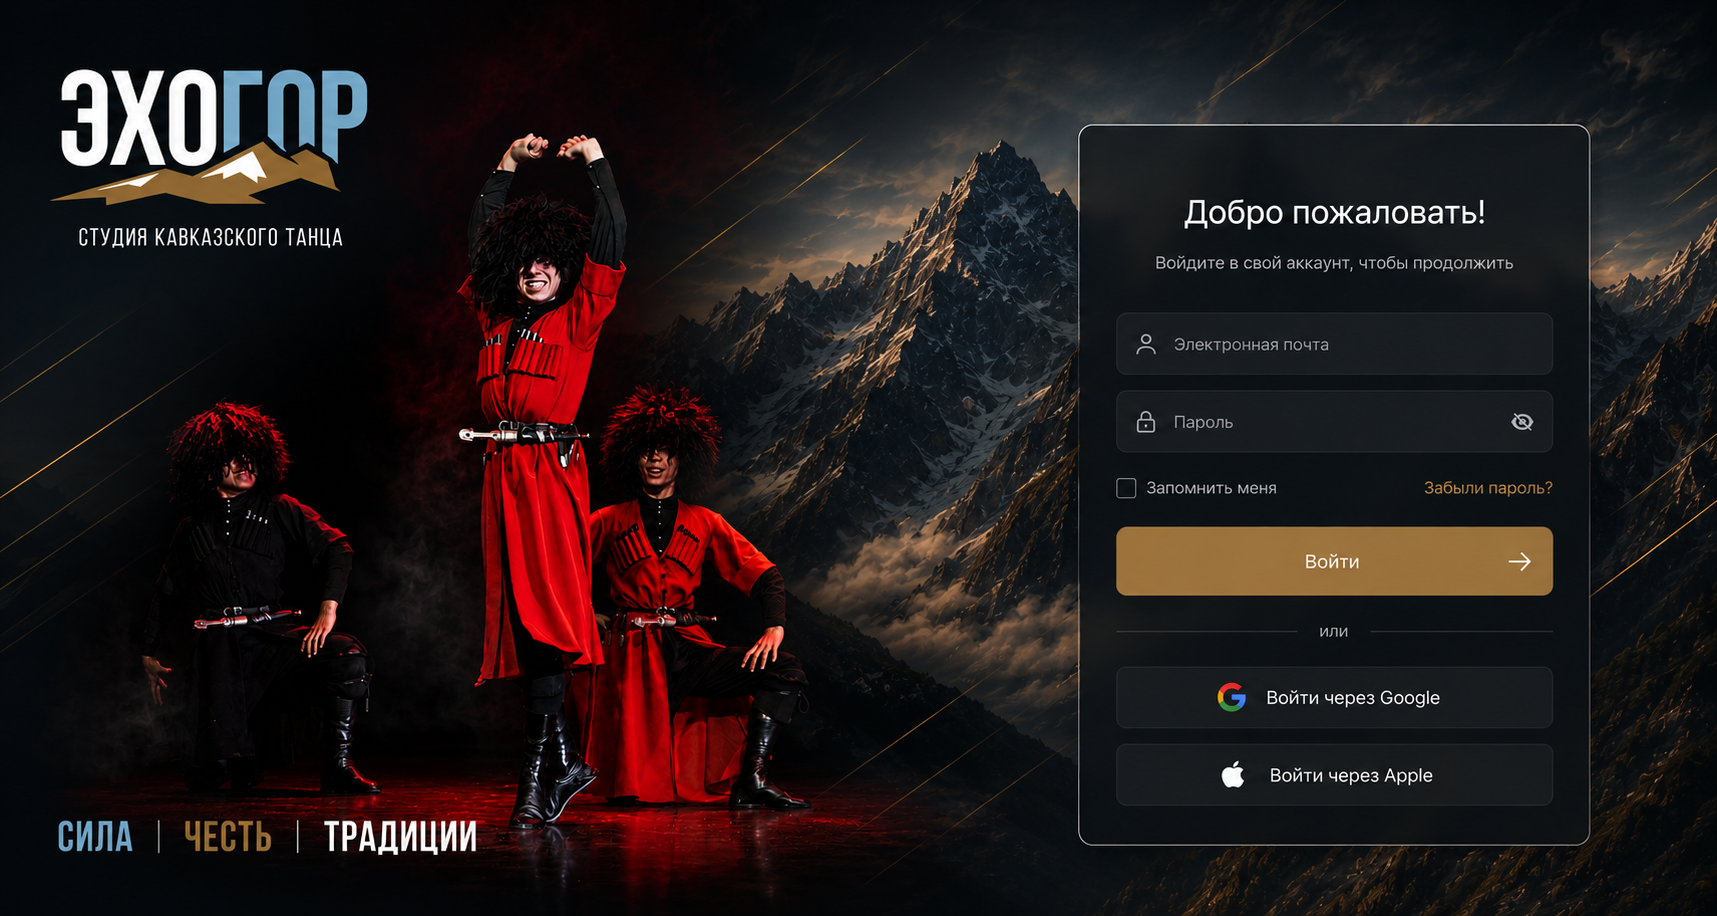
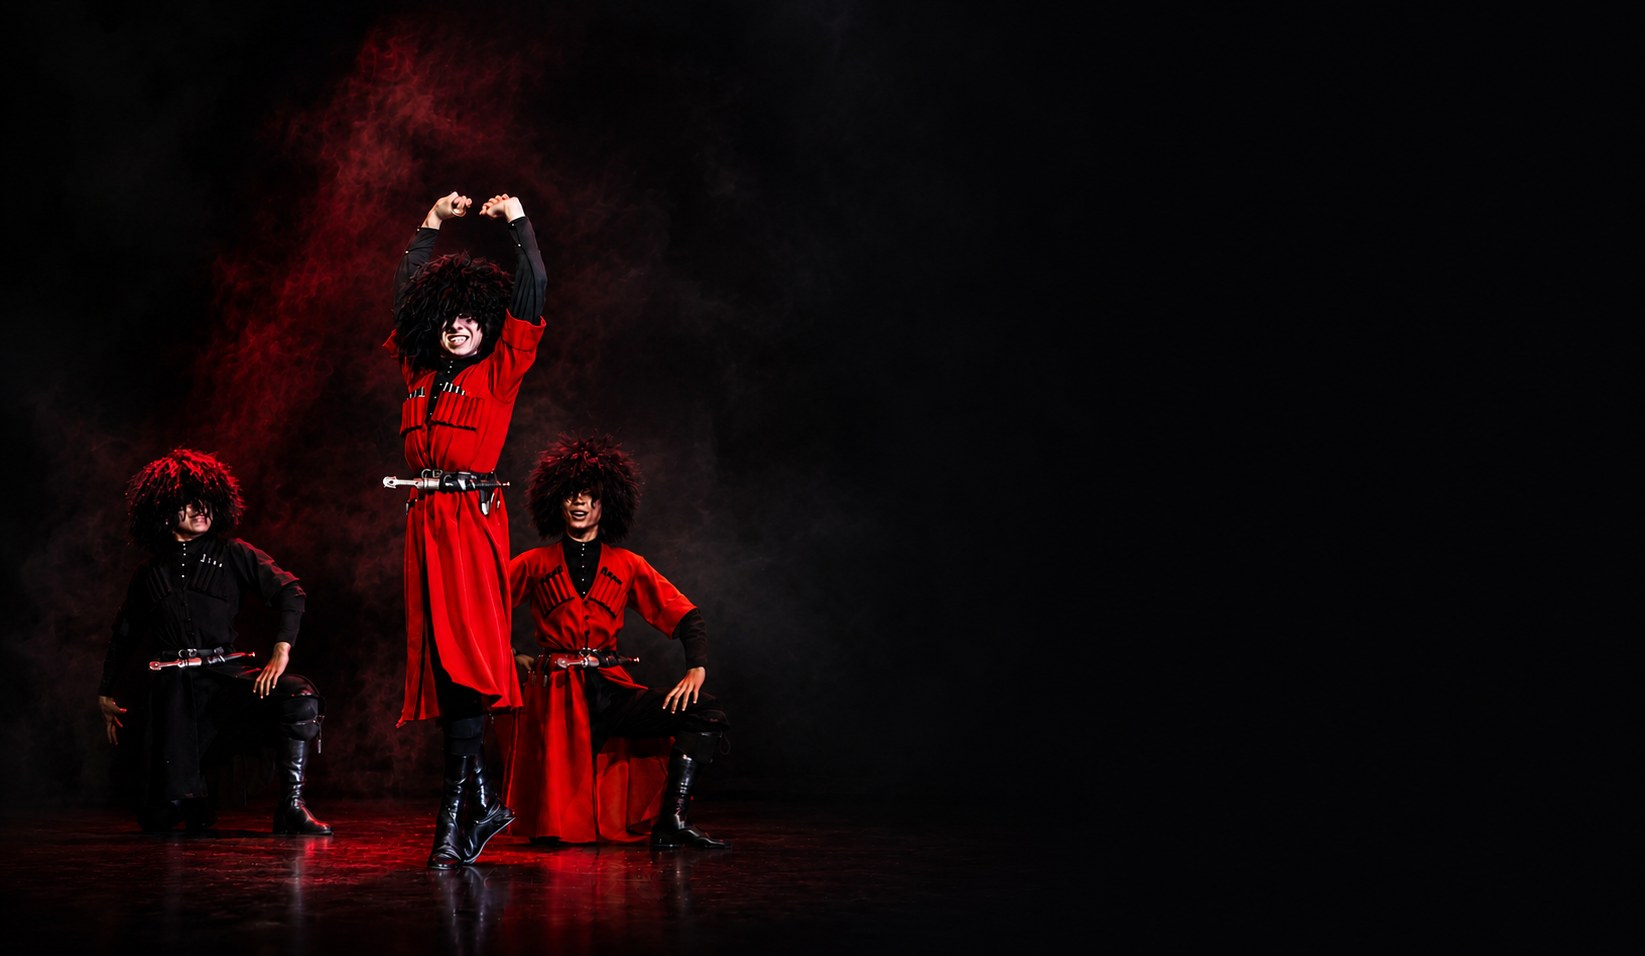
fix(login): чистый фон + логотип и тэглайн живой вёрсткой, адаптив

diff --git a/src/App.tsx b/src/App.tsx
@@ -18,6 +18,7 @@ import logoImg from "./assets/images/echogor_logo_1780297382250.png";
 import trainerLoginImg from "./assets/images/new_trainer_login_bg_1780308409116.png";
 // @ts-ignore
 import desktopLoginBg from "./assets/images/login_dancers_bg.png";
+import echoLogo from "./assets/images/logo_main.png";
 // @ts-ignore
 import mobileLoginBg from "./assets/images/login_dancers_bg.png";
 // @ts-ignore
@@ -2323,17 +2324,27 @@ export default function App() {
     <div className={`flex flex-col h-screen w-screen overflow-hidden bg-[#0A0A0A] text-slate-200 font-sans ${themeMode === "day" ? "day-theme-app" : themeMode === "iman" ? "iman-theme-app" : ""}`}>
       
       {/* Desktop login uses the supplied image as the visible UI, with real controls as transparent hotspots. */}
+      {/* ═══ Экран входа «Эхогор» — фон-фото + логотип/тэглайн живой вёрсткой ═══
+          Логика входа НЕ менялась: handleDesktopLogin, телефон +7, пароль,
+          desktopEmail/Password/RememberMe/ShowPassword, primeLoginVideoAudio,
+          кнопка мобильного симулятора — всё как было.
+          Изменена только оформительская обёртка: чистое фото фоном, мягкое
+          затемнение вместо жёсткой колонки 42%, логотип и тэглайн вынесены
+          в разметку (раньше были вшиты в картинку). */}
       {isPlayingPromo && (
         <div className="login-auth-screen fixed inset-0 z-[9999] bg-[#0A0D14] overflow-hidden select-none animate-fade-in font-sans text-slate-200">
           {/* Базовый тёмный фон — всегда виден, даже если фото не подгрузилось. */}
           <div className="absolute inset-0" style={{ background: "radial-gradient(120% 120% at 15% 10%, #1a2536 0%, #0B1018 45%, #05070C 100%)" }} />
-          {/* Фоновая фотография (танцоры + горы) поверх подложки. */}
+
+          {/* Фоновая фотография (чистая, без вшитого логотипа). Одна на все экраны;
+              object-position смещён влево, чтобы танцоры не обрезались на узких экранах. */}
           <img
             src={desktopLoginBg}
             alt=""
             aria-hidden="true"
             onError={(e) => { (e.currentTarget as HTMLImageElement).style.display = "none"; }}
             className="absolute inset-0 hidden h-full w-full object-cover opacity-95 md:block"
+            style={{ objectPosition: "30% center" }}
             referrerPolicy="no-referrer"
           />
           <img
@@ -2342,17 +2353,34 @@ export default function App() {
             aria-hidden="true"
             onError={(e) => { (e.currentTarget as HTMLImageElement).style.display = "none"; }}
             className="absolute inset-0 block h-full w-full object-cover opacity-95 md:hidden"
+            style={{ objectPosition: "30% center" }}
             referrerPolicy="no-referrer"
           />
-          {/* Затемнение фона для контраста формы (inline-градиент в sRGB — без oklab-артефактов Tailwind v4). */}
-          <div className="absolute inset-0" style={{ background: "linear-gradient(to right, rgba(5,7,12,0.35), rgba(5,7,12,0.10) 40%, rgba(5,7,12,0.55))" }} />
-          {/* Плотная правая колонка — полностью скрывает «вшитую» в картинку форму. */}
-          <div className="absolute inset-y-0 right-0 hidden w-[42%] md:block" style={{ background: "#06090F" }} />
-          <div className="absolute inset-y-0 right-[42%] hidden w-[10%] md:block" style={{ background: "linear-gradient(to left, #06090F, rgba(6,9,15,0))" }} />
+
+          {/* Затемнение: снизу сильнее (под мобильную карточку), справа сильнее (под десктопную).
+              Мягкие градиенты в sRGB — без oklab-артефактов Tailwind v4, тянутся под любую ширину. */}
+          <div className="absolute inset-0" style={{ background: "linear-gradient(180deg, rgba(5,7,12,0.45) 0%, rgba(5,7,12,0.22) 38%, rgba(5,7,12,0.90) 100%)" }} />
+          <div className="absolute inset-0 hidden md:block" style={{ background: "radial-gradient(120% 90% at 100% 50%, rgba(5,7,12,0.90), rgba(5,7,12,0) 60%)" }} />
+
+          {/* Логотип «ЭХОГОР» — живой вёрсткой: по центру сверху на мобильном, слева на десктопе. */}
+          <img
+            src={echoLogo}
+            alt="ЭХОГОР — студия кавказского танца"
+            className="pointer-events-none absolute z-[5] left-1/2 top-[clamp(20px,4vw,44px)] w-[clamp(190px,52vw,300px)] -translate-x-1/2 drop-shadow-[0_6px_24px_rgba(0,0,0,0.5)] md:left-[clamp(28px,4vw,56px)] md:translate-x-0"
+          />
+
+          {/* Тэглайн «Сила | Честь | Традиции» — живой вёрсткой: снизу по центру / слева на десктопе. */}
+          <div className="pointer-events-none absolute z-[5] bottom-[clamp(20px,4vw,44px)] left-1/2 flex -translate-x-1/2 items-center gap-[0.55rem] whitespace-nowrap text-[clamp(14px,3.3vw,18px)] font-extrabold uppercase tracking-[0.14em] drop-shadow-[0_2px_10px_rgba(0,0,0,0.6)] md:left-[clamp(28px,4vw,56px)] md:translate-x-0">
+            <span className="text-[#8FB4C9]">Сила</span>
+            <span className="font-medium text-white/35">|</span>
+            <span className="text-[#C5A059]">Честь</span>
+            <span className="font-medium text-white/35">|</span>
+            <span className="text-white">Традиции</span>
+          </div>
 
           {/* Настоящая форма входа — адаптив: по центру на узких экранах, справа на десктопе;
-              вертикальная прокрутка, чтобы форма не обрезалась на низких окнах. */}
-          <div className="absolute inset-0 z-10 flex items-center justify-center overflow-y-auto px-4 py-6 sm:px-5 sm:py-8 md:justify-end md:pr-[clamp(24px,6vw,96px)]">
+              на мобильном добавлены отступы сверху/снизу, чтобы карточка не наезжала на логотип и тэглайн. */}
+          <div className="absolute inset-0 z-10 flex items-center justify-center overflow-y-auto px-4 pt-[120px] pb-[84px] sm:px-5 md:justify-end md:pr-[clamp(24px,6vw,96px)] md:pt-8 md:pb-8">
             <form
               onSubmit={handleDesktopLogin}
               noValidate
@@ -2374,7 +2402,6 @@ export default function App() {
                   placeholder="(___) ___-__-__"
                   value={desktopEmail}
                   onChange={(e) => {
-                    // оставляем только цифры, максимум 10 (без кода страны)
                     const digits = e.target.value.replace(/\D/g, "").slice(0, 10);
                     setDesktopEmail(digits);
                     setActiveHotspot(null);
@@ -2467,7 +2494,6 @@ export default function App() {
 
         </div>
       )}
-
       {/* Видео-переход при входе полностью удалён. */}
 
       {/* Old assembled login screen kept disabled while the supplied mockup drives the visible UI. */}